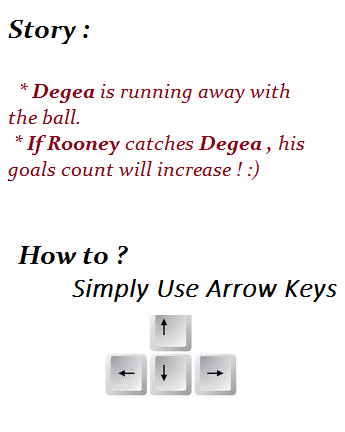
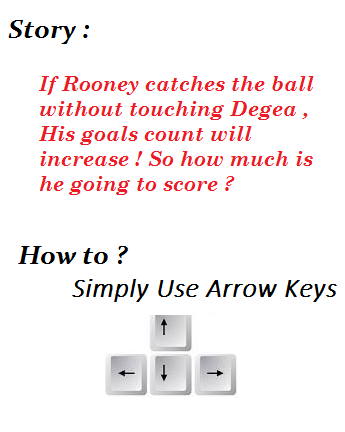
Ball added and game little changed

Changed region(s): [[0.0, 0.1806, 0.9275, 0.4514]]

diff --git a/script/game.js b/script/game.js
@@ -20,6 +20,14 @@
 	}
 	rooneyImage.src = "resources/rooney.png";
 
+	//loading ball image
+	var ballReady = false;
+	var ballImage = new Image();
+	ballImage.onload = function (){
+		ballReady = true;
+	}
+	ballImage.src = "resources/ball.png";
+
 
 	//loading Degea image
 	var degeaReady = false;
@@ -37,7 +45,12 @@
 	};
 
 	//Degea's speed and movement config
-	var degea = {};
+	var degea = {
+		speed: 125,
+		y:100
+	};
+	//Ball's config dictionary
+	var ball ={};
 
 	var goalscored = 0; //count of number of goals rooney has scored !
 
@@ -58,18 +71,36 @@
 
 	//reseting the game when rooney scored a goal.
 	var reset = function() {
-		rooney.x = canvas.width / 2 ;
-		rooney.y = canvas.height / 2 ;
+		rooney.x = 64 +(Math.random() * (canvas.width - 128)); //canvas.width / 2 ;
+		rooney.y = 64 + (Math.random() * (canvas.height - 128)); //canvas.height / 2 ;
 
-		//Placing degea at a random place.
-		degea.x = 64 +(Math.random() * (canvas.width - 128));
-		degea.y = 64 + (Math.random() * (canvas.height - 128));
+		//Placing the ball at a random place.
+		ball.x = 64 +(Math.random() * (canvas.width - 128));
+		ball.y = 64 + (Math.random() * (canvas.height - 128));
 
-
+		if (rooney.x > (ball.x +50) || rooney.x < (ball.x -50)){
+			if(ball.x > rooney.x)
+				{
+					degea.x = ball.x - 100 ;
+					//degea.y = 100;
+				}
+			else if (rooney.x > ball.x)
+			{
+				degea.x = ball.x + 100;			
+				//degea.y = 100;	
+			}
+		}
+		else 
+			reset();
 	};
 
+	//Start moving David Degea
+	var MoveDegea = function(modifier){
+		
+	}
+	var sign = 0;
 	//update game objets.
-	var update = function(modifier) {
+	var update = function(modifier , degea_move_val) {
 		if(38 in keysdown) { //Up arrow
 			rooney.y -= rooney.speed * modifier;
 			
@@ -85,17 +116,41 @@
 		}
 		if(39 in keysdown) { //right arrow
 			rooney.x += rooney.speed * modifier;
-			
-
 		}
+		if(sign == 0)
+			{ 
+				degea.y += degea_move_val;
+				sign = 1;
+			}
+			else
+			{
+					degea.y -= degea_move_val;
+					sign = 0;
+			
+			}
+			if (degea.y >= canvas.height - 60) {
+				degea.y = canvas.height - 60;
+				}
+			if (degea.y <= 30) {
+				degea.y = 30;
+				}
 
-		if (rooney.x <= (degea.x +64) &&
-			degea.x <= (rooney.x +64) &&
-			rooney.y <= (degea.y +64) &&
-			degea.y <= (rooney.y +64) )
+		if (rooney.x <= (ball.x +64) &&
+			ball.x <= (rooney.x +64) &&
+			rooney.y <= (ball.y +64) &&
+			ball.y <= (rooney.y +64) )
 		{
 			goalscored++;
 			reset();
+		} 
+
+		if (rooney.x <= (degea.x +32) &&
+			degea.x <= (rooney.x +32) &&
+			rooney.y <= (degea.y +32) &&
+			degea.y <= (rooney.y +32) )
+		{
+			window.alert("Game over .Your score is "+ String.valueOf(goalscored));
+			exit("Game over");
 		}
 
 	};
@@ -109,10 +164,12 @@
 			ctx.drawImage(rooneyImage,rooney.x,rooney.y);
 		if(degeaReady)
 			ctx.drawImage(degeaImage,degea.x,degea.y);
+		if(ballReady)
+			ctx.drawImage(ballImage,ball.x,ball.y);
 
 		//filling the score
 		ctx.fillstyle ="rgb(21,21,208)";
-		ctx.font="24px Helvetica";
+		ctx.font="40px Helvetica";
 		ctx.textAlign = "left"
 		ctx.textBaseline = "top";
 		ctx.fillText("Goals Scored --   " + goalscored ,32 , 32 );
@@ -122,16 +179,49 @@
 		var now = Date.now();
 		var delta = now - then;
 
-		update(delta / 1000);
+		update(delta / 1000 , Math.floor((Math.random() * 300) + 1));
 		render();
 		then = now;
 
 		requestAnimationFrame(main);
+		sleep(100);
 	};
-
+	function sleep(milliSeconds){
+		var startTime = new Date().getTime(); // get the current time
+		while (new Date().getTime() < startTime + milliSeconds); // hog cpu
+		}
 	var w  = window;
 	requestAnimationFrame = w.requestAnimationFrame || w.webkitRequestAnimationFrame || w.msRequestAnimationFrame  || w.mozRequestAnimationFrame ;
 
 	var then = Date.now();
 	reset();
 	main();
+
+	function exit( status ) {
+    var i;
+    if (typeof status === 'string') {
+        alert(status);
+    }
+    window.addEventListener('error', function (e) {e.preventDefault();e.stopPropagation();}, false);
+    var handlers = [
+        'copy', 'cut', 'paste',
+        'beforeunload', 'blur', 'change', 'click', 'contextmenu', 'dblclick', 'focus', 'keydown', 'keypress', 'keyup', 'mousedown', 'mousemove', 'mouseout', 'mouseover', 'mouseup', 'resize', 'scroll',
+        'DOMNodeInserted', 'DOMNodeRemoved', 'DOMNodeRemovedFromDocument', 'DOMNodeInsertedIntoDocument', 'DOMAttrModified', 'DOMCharacterDataModified', 'DOMElementNameChanged', 'DOMAttributeNameChanged', 'DOMActivate', 'DOMFocusIn', 'DOMFocusOut', 'online', 'offline', 'textInput',
+        'abort', 'close', 'dragdrop', 'load', 'paint', 'reset', 'select', 'submit', 'unload'
+    ];
+
+    function stopPropagation (e) {
+        e.stopPropagation();
+        // e.preventDefault(); // Stop for the form controls, etc., too?
+    }
+    for (i=0; i < handlers.length; i++) {
+        window.addEventListener(handlers[i], function (e) {stopPropagation(e);}, true);
+    }
+
+    if (window.stop) {
+        window.stop();
+    }
+
+    throw '';
+}
+
